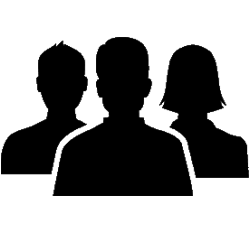
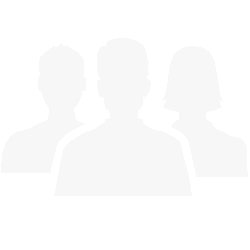
recolor

diff --git a/style.css b/style.css
@@ -221,44 +221,22 @@ header nav .contacts {
   margin: 25px;
 }
 .container.second .flex-tools .tool {
-  width: 250px;
-  height: 250px;
-  margin: 25px;
-  border: 25px solid #ffffff;
-  border-radius: 50%;
-  background: #af6e07;
-  box-shadow: 10px 10px 30px 0px rgba(0, 0, 0, 0.49);
   cursor: pointer;
 }
 .container.second .flex-tools .tool .tool-icon {
   width: 130px;
   height: 130px;
-  margin-top: 15px;
-  filter: drop-shadow(0 0 5px #000000) invert(100%);
+  margin: 25px;
+  padding: 10px;
+  border: 10px solid #ffffff;
+  border-radius: 50%;
+  background: #51432e;
+  box-shadow: 10px 10px 30px 0px rgba(0, 0, 0, 0.49);
   cursor: pointer;
-}
-.container.second .flex-tools .tool .tool-icon.portfolio {
-  margin-top: 30px;
-  margin-bottom: 25px;
-  height: 90px;
-  width: 90px;
-}
-.container.second .flex-tools .tool .tool-icon.serviceIcon {
-  width: 110px;
-  height: 110px;
-  margin-top: 22px;
-  margin-bottom: 12px;
-}
-.container.second .flex-tools .tool .tool-icon.telIcon {
-  margin-top: 32px;
-  margin-bottom: 15px;
-  width: 100px;
-  height: 100px;
 }
 .container.second .flex-tools .tool .tool-title {
   font-size: 20px;
   font-weight: bold;
-  color: white;
 }
 .container .mainBcg {
   position: absolute;
@@ -433,4 +411,4 @@ header nav .contacts {
   font-family: 'Fira Mono', monospace;
   text-align: left;
 }
-(node:2143) DeprecationWarning: util.print is deprecated. Use console.log instead.
+(node:2496) DeprecationWarning: util.print is deprecated. Use console.log instead.

diff --git a/style.less b/style.less
@@ -220,43 +220,21 @@ header {
       flex-wrap: wrap;
       margin: 25px;
       .tool {
-        width: 250px;
-        height: 250px;
-        margin: 25px;
-        border: 25px solid #ffffff;
-        border-radius: 50%;
-        background: #af6e07;
-        box-shadow: 10px 10px 30px 0px rgba(0, 0, 0, 0.49);
         cursor: pointer;
         .tool-icon {
           width: 130px;
           height: 130px;
-          margin-top: 15px;
-          filter: drop-shadow( 0 0 5px black) invert(100%);
+          margin: 25px;
+          padding: 10px;
+          border: 10px solid #ffffff;
+          border-radius: 50%;
+          background: #51432e;
+          box-shadow: 10px 10px 30px 0px rgba(0, 0, 0, 0.49);
           cursor: pointer;
-          &.portfolio {
-            margin-top: 30px;
-            margin-bottom: 25px;
-            height: 90px;
-            width: 90px;
-          }
-          &.serviceIcon {
-            width: 110px;
-            height: 110px;
-            margin-top: 22px;
-            margin-bottom: 12px;
-          }
-          &.telIcon {
-            margin-top: 32px;
-            margin-bottom: 15px;
-            width: 100px;
-            height: 100px;
-          }
         }
         .tool-title {
           font-size: 20px;
           font-weight: bold;
-          color: white;
         }
       }
     }
